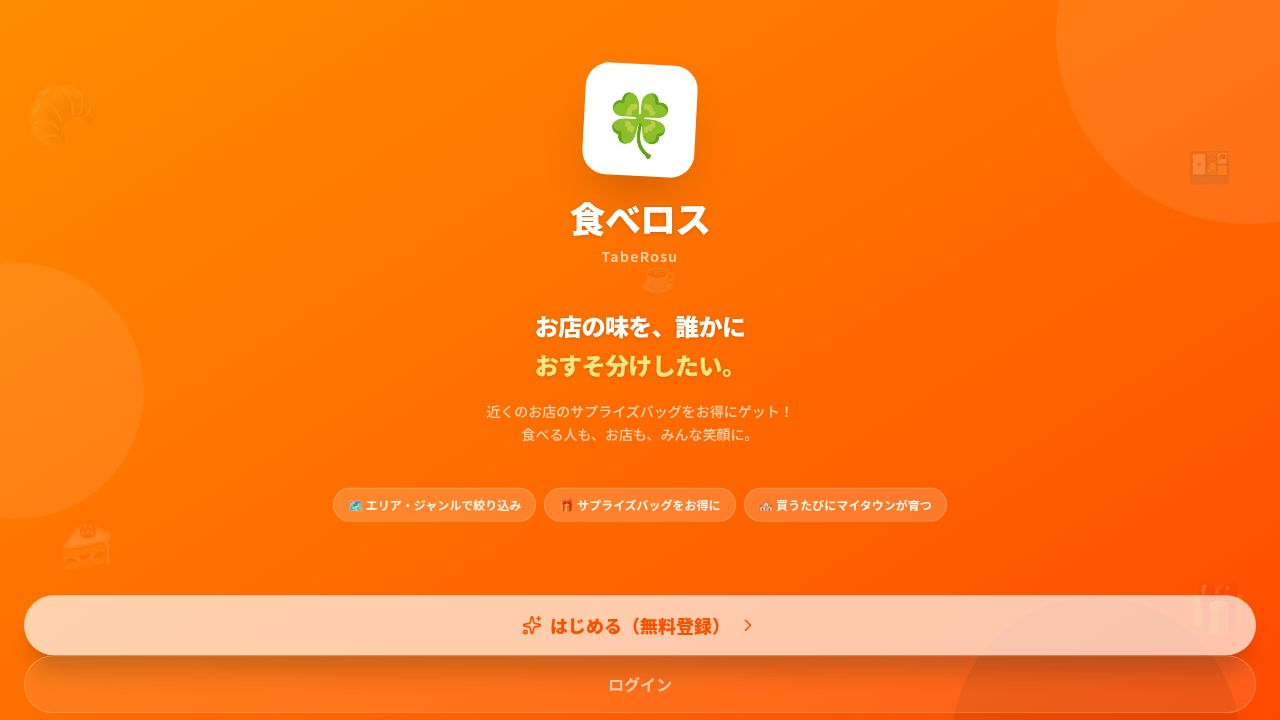
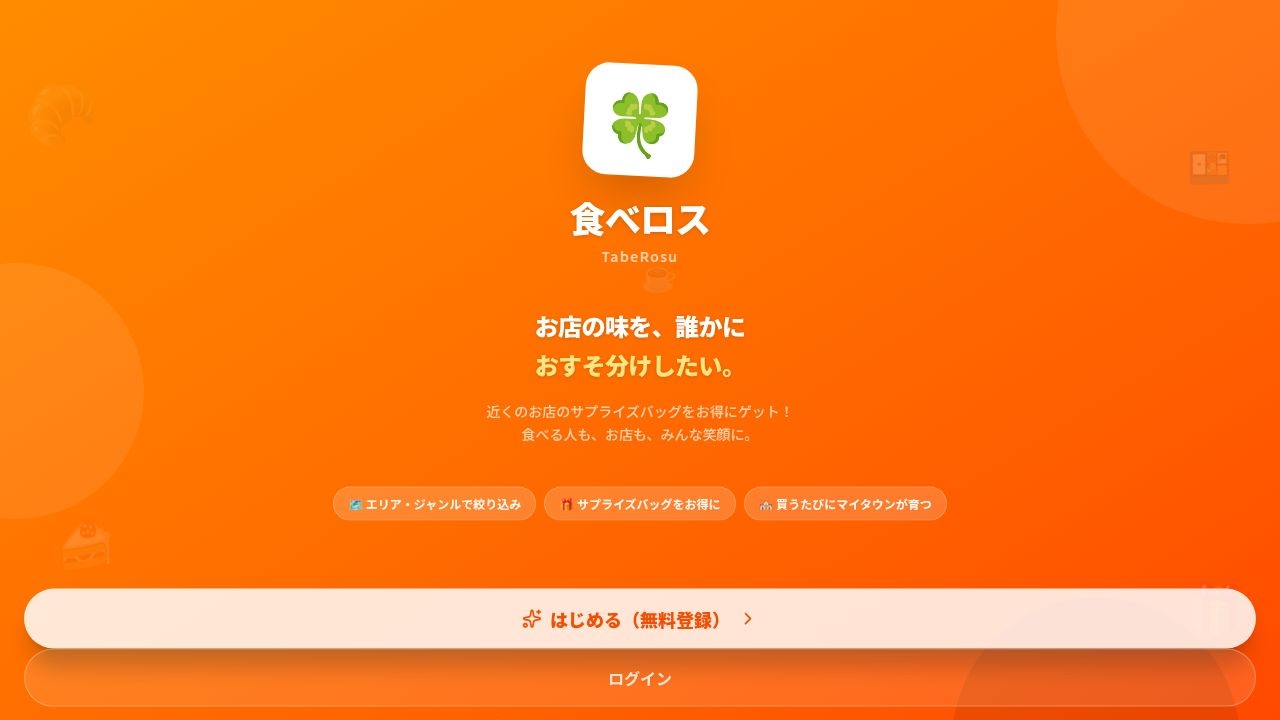
Improve Stripe account update logic and dashboard redirect behavior
Update Stripe API calls to use partial updates, excluding empty fields, and modify the dashboard to display a notice instead of automatically redirecting users to bank setup.

Replit-Commit-Author: Agent
Replit-Commit-Session-Id: 1ac48701-ff10-4aff-ad47-57d34b045737
Replit-Commit-Checkpoint-Type: full_checkpoint
Replit-Commit-Event-Id: cbeb5bcb-6100-4794-9665-519e0bdf8083
Replit-Commit-Screenshot-Url: https://storage.googleapis.com/screenshot-production-us-central1/77a30fd7-5987-4f0d-8ba0-66504bb80d25/1ac48701-ff10-4aff-ad47-57d34b045737/D7wgnEQ
Replit-Helium-Checkpoint-Created: true

diff --git a/artifacts/api-server/src/routes/stores.ts b/artifacts/api-server/src/routes/stores.ts
@@ -880,72 +880,77 @@ router.put("/stores/:storeId/connect/kyc", async (req, res) => {
       businessProfileUpdate["url"] = businessProfile.url;
     }
 
-    // ── Stripe Account Update パラメータを構築 ──
+    // ── Stripe Account Update パラメータを構築（部分更新 — 空フィールドは完全に除外）──
     const updateParams: Record<string, any> = {
-      business_type: "individual",          // 常に individual に固定
+      business_type:    "individual",
       business_profile: businessProfileUpdate,
     };
 
     if (businessType === "individual") {
-      const indiv: Record<string, any> = {
-        // ASCII/Kana 名（Stripe グローバル標準フィールド）
-        first_name:      representative.firstNameKana,
-        last_name:       representative.lastNameKana,
-        // Kana 名
-        first_name_kana: representative.firstNameKana,
-        last_name_kana:  representative.lastNameKana,
-        // Kanji 名（日本専用フィールド — Stripe Japan が required）
-        first_name_kanji: representative.firstNameKanji,
-        last_name_kanji:  representative.lastNameKanji,
-        dob: {
+      const indiv: Record<string, any> = {};
+      // 氏名（カナ/漢字）— それぞれ独立して設定
+      if (representative.firstNameKana?.trim())  { indiv.first_name = representative.firstNameKana; indiv.first_name_kana = representative.firstNameKana; }
+      if (representative.lastNameKana?.trim())   { indiv.last_name  = representative.lastNameKana;  indiv.last_name_kana  = representative.lastNameKana;  }
+      if (representative.firstNameKanji?.trim()) indiv.first_name_kanji = representative.firstNameKanji;
+      if (representative.lastNameKanji?.trim())  indiv.last_name_kanji  = representative.lastNameKanji;
+      // 生年月日（全フィールド揃っている場合のみ）
+      if (representative.dobDay && representative.dobMonth && representative.dobYear) {
+        indiv.dob = {
           day:   Number(representative.dobDay),
           month: Number(representative.dobMonth),
           year:  Number(representative.dobYear),
-        },
-        address:       addressStandard,
-        address_kanji: addressKanji,
-        address_kana:  addressKana,
-      };
-      if (representative.phone) indiv["phone"] = toE164Japan(representative.phone);
-      if (representative.email) indiv["email"] = representative.email;
-      updateParams["individual"] = indiv;
+        };
+      }
+      // 住所（郵便番号が入力されている場合のみ）
+      if (representative.postalCode?.trim()) {
+        indiv.address       = addressStandard;
+        indiv.address_kanji = addressKanji;
+        indiv.address_kana  = addressKana;
+      }
+      if (representative.phone?.trim()) indiv.phone = toE164Japan(representative.phone);
+      if (representative.email?.trim()) indiv.email = representative.email;
+
+      if (Object.keys(indiv).length > 0) updateParams["individual"] = indiv;
     } else {
       // company: 会社情報 + 代表者情報
-      const companyObj: Record<string, any> = {
-        name:          `${representative.lastNameKanji}${representative.firstNameKanji}`,
-        name_kana:     `${representative.lastNameKana}${representative.firstNameKana}`,
-        address:       addressStandard,
-        address_kanji: addressKanji,
-        address_kana:  addressKana,
-      };
-      if (representative.phone) companyObj["phone"] = toE164Japan(representative.phone);
-      updateParams["company"] = companyObj;
+      const companyObj: Record<string, any> = {};
+      const fullNameKanji = `${representative.lastNameKanji ?? ''}${representative.firstNameKanji ?? ''}`.trim();
+      const fullNameKana  = `${representative.lastNameKana  ?? ''}${representative.firstNameKana  ?? ''}`.trim();
+      if (fullNameKanji) companyObj.name      = fullNameKanji;
+      if (fullNameKana)  companyObj.name_kana = fullNameKana;
+      if (representative.postalCode?.trim()) {
+        companyObj.address       = addressStandard;
+        companyObj.address_kanji = addressKanji;
+        companyObj.address_kana  = addressKana;
+      }
+      if (representative.phone?.trim()) companyObj.phone = toE164Japan(representative.phone);
+      if (Object.keys(companyObj).length > 0) updateParams["company"] = companyObj;
 
       const rep: Record<string, any> = {
-        first_name:      representative.firstNameKanji,
-        last_name:       representative.lastNameKanji,
-        first_name_kana: representative.firstNameKana,
-        last_name_kana:  representative.lastNameKana,
-        dob: {
+        relationship: { representative: true, owner: true, percent_ownership: 100 },
+      };
+      if (representative.firstNameKanji?.trim()) rep.first_name = representative.firstNameKanji;
+      if (representative.lastNameKanji?.trim())  rep.last_name  = representative.lastNameKanji;
+      if (representative.firstNameKana?.trim())  rep.first_name_kana = representative.firstNameKana;
+      if (representative.lastNameKana?.trim())   rep.last_name_kana  = representative.lastNameKana;
+      if (representative.dobDay && representative.dobMonth && representative.dobYear) {
+        rep.dob = {
           day:   Number(representative.dobDay),
           month: Number(representative.dobMonth),
           year:  Number(representative.dobYear),
-        },
-        address:       addressStandard,
-        address_kanji: addressKanji,
-        address_kana:  addressKana,
-        relationship: {
-          representative: true,
-          owner:          true,
-          percent_ownership: 100,
-        },
-      };
-      if (representative.phone) rep["phone"] = toE164Japan(representative.phone);
-      if (representative.email) rep["email"] = representative.email;
+        };
+      }
+      if (representative.postalCode?.trim()) {
+        rep.address       = addressStandard;
+        rep.address_kanji = addressKanji;
+        rep.address_kana  = addressKana;
+      }
+      if (representative.phone?.trim()) rep.phone = toE164Japan(representative.phone);
+      if (representative.email?.trim()) rep.email = representative.email;
       updateParams["representative"] = rep;
     }
 
-    // ── Stripe 送信前ペイロードをフルログ ──
+    // ── Stripe 送信直前のペイロードをフルログ（null/空がないか確認）──
     console.log(`📤 [KYC] Stripe accounts.update payload for account ${store.stripeAccountId}:`);
     console.log(JSON.stringify(updateParams, null, 2));
 
@@ -1367,55 +1372,64 @@ router.post("/stores/:storeId/connect/bank-setup", async (req, res) => {
       else console.warn(`⚠️  [bank-setup] BG Front doc upload failed`);
       if (backFileId) console.log(`✅ [bank-setup] BG Back doc uploaded: ${backFileId}`);
 
-      // STEP 4: KYC 一括更新
+      // STEP 4: KYC 一括更新（部分更新 — 空フィールドは除外して先祖返りを防ぐ）
       const k = kycData;
       const kanjiLine1 = [k.cityKanji, k.townKanji, k.line1Kanji].filter(Boolean).join(" ");
       const kanaLine1  = [k.cityKana,  k.townKana,  k.line1Kana ].filter(Boolean).join(" ");
 
-      const addressKanji = { postal_code: k.postalCode, state: k.stateKanji, city: k.cityKanji, town: k.townKanji, line1: kanjiLine1 };
-      const addressKana  = { postal_code: k.postalCode, state: k.stateKana,  city: k.cityKana,  town: k.townKana,  line1: kanaLine1  };
-      const addressStd   = { postal_code: k.postalCode, country: "JP", state: k.stateKanji, city: k.cityKanji, line1: kanjiLine1 };
-
-      const indiv: Record<string, any> = {
-        first_name:       k.firstNameKana,
-        last_name:        k.lastNameKana,
-        first_name_kana:  k.firstNameKana,
-        last_name_kana:   k.lastNameKana,
-        first_name_kanji: k.firstNameKanji,
-        last_name_kanji:  k.lastNameKanji,
-        dob:  { day: Number(k.dobDay), month: Number(k.dobMonth), year: Number(k.dobYear) },
-        address:       addressStd,
-        address_kanji: addressKanji,
-        address_kana:  addressKana,
-        phone:  toE164Japan(k.phone),
-        ...(ownerEmail ? { email: ownerEmail } : {}),
-        ...(frontFile ? {
-          verification: {
-            document: {
-              front: (frontFile as any).id,
-              ...(backFileId ? { back: backFileId } : {}),
-            },
+      // ── 部分更新: 値があるフィールドだけ追加 ──
+      const indiv: Record<string, any> = {};
+      // 氏名（カナ/漢字）— それぞれ独立して設定
+      if (k.firstNameKana?.trim())  { indiv.first_name = k.firstNameKana; indiv.first_name_kana = k.firstNameKana; }
+      if (k.lastNameKana?.trim())   { indiv.last_name  = k.lastNameKana;  indiv.last_name_kana  = k.lastNameKana;  }
+      if (k.firstNameKanji?.trim()) indiv.first_name_kanji = k.firstNameKanji;
+      if (k.lastNameKanji?.trim())  indiv.last_name_kanji  = k.lastNameKanji;
+      // 生年月日（全フィールド揃っている場合のみ）
+      if (k.dobDay && k.dobMonth && k.dobYear) {
+        indiv.dob = { day: Number(k.dobDay), month: Number(k.dobMonth), year: Number(k.dobYear) };
+      }
+      // 住所（郵便番号が入力されている場合のみ）
+      if (k.postalCode?.trim()) {
+        indiv.address       = { postal_code: k.postalCode, country: "JP", state: k.stateKanji, city: k.cityKanji, line1: kanjiLine1 };
+        indiv.address_kanji = { postal_code: k.postalCode, state: k.stateKanji, city: k.cityKanji, town: k.townKanji, line1: kanjiLine1 };
+        indiv.address_kana  = { postal_code: k.postalCode, state: k.stateKana,  city: k.cityKana,  town: k.townKana,  line1: kanaLine1  };
+      }
+      if (k.phone?.trim()) indiv.phone = toE164Japan(k.phone);
+      if (ownerEmail)      indiv.email = ownerEmail;
+      // 本人確認書類（アップロード成功時のみ）
+      if (frontFile) {
+        indiv.verification = {
+          document: {
+            front: (frontFile as any).id,
+            ...(backFileId ? { back: backFileId } : {}),
           },
-        } : {}),
-      };
+        };
+      }
 
+      // 事業内容（必須フィールドのみ、空は除外）
       const businessProfileUpdate: Record<string, string> = { mcc: "5812", url: businessUrl };
-      if (k.productDescription) businessProfileUpdate["product_description"] = k.productDescription;
+      if (k.productDescription?.trim()) businessProfileUpdate["product_description"] = k.productDescription;
 
-      console.log(`📤 [bank-setup] BG STEP4 accounts.update for ${accountId}…`);
+      // ── Stripe 送信直前のペイロードをログ（デバッグ用 — null/空がないか確認）──
+      const step4Payload: Record<string, any> = {
+        business_type:    "individual",
+        business_profile: businessProfileUpdate,
+      };
+      if (Object.keys(indiv).length > 0) step4Payload.individual = indiv;
+
+      console.log(`📤 [bank-setup] BG STEP4 accounts.update payload for ${accountId}:`);
+      console.log(JSON.stringify(step4Payload, null, 2));
+
       try {
         await stripeCall(
-          stripe.accounts.update(accountId, {
-            business_type:    "individual",
-            business_profile: businessProfileUpdate,
-            individual:       indiv as any,
-          }),
+          stripe.accounts.update(accountId, step4Payload as any),
           "accounts.update(kyc)",
           30000
         );
         console.log(`✅ [bank-setup] BG accounts.update succeeded`);
       } catch (kycErr: any) {
         console.warn(`⚠️  [bank-setup] BG accounts.update(kyc) failed: ${kycErr?.raw?.message ?? kycErr?.message}`);
+        console.warn(`   param: ${kycErr?.raw?.param ?? kycErr?.param}`);
       }
 
       // STEP 5: DB ステータスを approved に更新

diff --git a/artifacts/rescueat/src/pages/StoreDashboard.tsx b/artifacts/rescueat/src/pages/StoreDashboard.tsx
@@ -10,7 +10,7 @@ import {
 import {
   Plus, Clock, CheckCircle2, Package2, X, ChevronUp, ChevronDown,
   Loader2, AlertCircle, BarChart2, RefreshCw, Ticket, Eye, ArrowRight,
-  History, Sparkles,
+  History, Sparkles, CreditCard,
 } from 'lucide-react';
 import { Link, useLocation } from 'wouter';
 import { motion, AnimatePresence } from 'framer-motion';
@@ -732,12 +732,9 @@ export default function StoreDashboard() {
         navigate('/store-onboarding', { replace: true });
         return;
       }
-      if (store.status === 'approved' && !store.stripeAccountId) {
-        // 承認済みだが口座未登録（スキップ不可）
-        console.log('[StoreDashboard] approved but no bank account → /store/bank-setup');
-        navigate('/store/bank-setup', { replace: true });
-      }
-      // applied（口座登録済み）または approved（口座登録済み）→ ダッシュボードを表示
+      // applied または approved → ダッシュボードを表示
+      // ※ 口座未登録の場合でも自動リダイレクトはしない（ループの原因になるため）
+      //   マイページのバナーから手動で /store/bank-setup に遷移してもらう
     }
   }, [store, storeLoading, storeFetchError, navigate]);
 
@@ -956,6 +953,26 @@ export default function StoreDashboard() {
             <RefreshCw className="w-4 h-4" />
           </button>
         </div>
+
+        {/* ── 振込先口座未登録のお知らせ（自動リダイレクトなし・手動遷移のみ）── */}
+        {store.status === 'approved' && !store.stripeAccountId && (
+          <div className="bg-blue-50 border border-blue-200 rounded-2xl p-4 flex items-start gap-3">
+            <div className="w-9 h-9 bg-blue-100 rounded-xl flex items-center justify-center shrink-0 mt-0.5">
+              <CreditCard className="w-5 h-5 text-blue-600" />
+            </div>
+            <div className="flex-1 min-w-0">
+              <p className="font-black text-blue-900 text-sm">振込先口座の登録が必要です</p>
+              <p className="text-xs text-blue-600 mt-0.5 leading-relaxed">売上を受け取るために口座を登録してください。登録するまで出品した商品の決済は保留されます。</p>
+              <button
+                onClick={() => navigate('/store/bank-setup')}
+                className="mt-2.5 inline-flex items-center gap-1.5 text-xs font-black text-blue-700 bg-blue-100 hover:bg-blue-200 px-3 py-1.5 rounded-lg transition-colors"
+              >
+                <CreditCard className="w-3.5 h-3.5" />
+                口座を登録する
+              </button>
+            </div>
+          </div>
+        )}
 
         {/* ── 大きなCTAボタン ── */}
         <motion.button